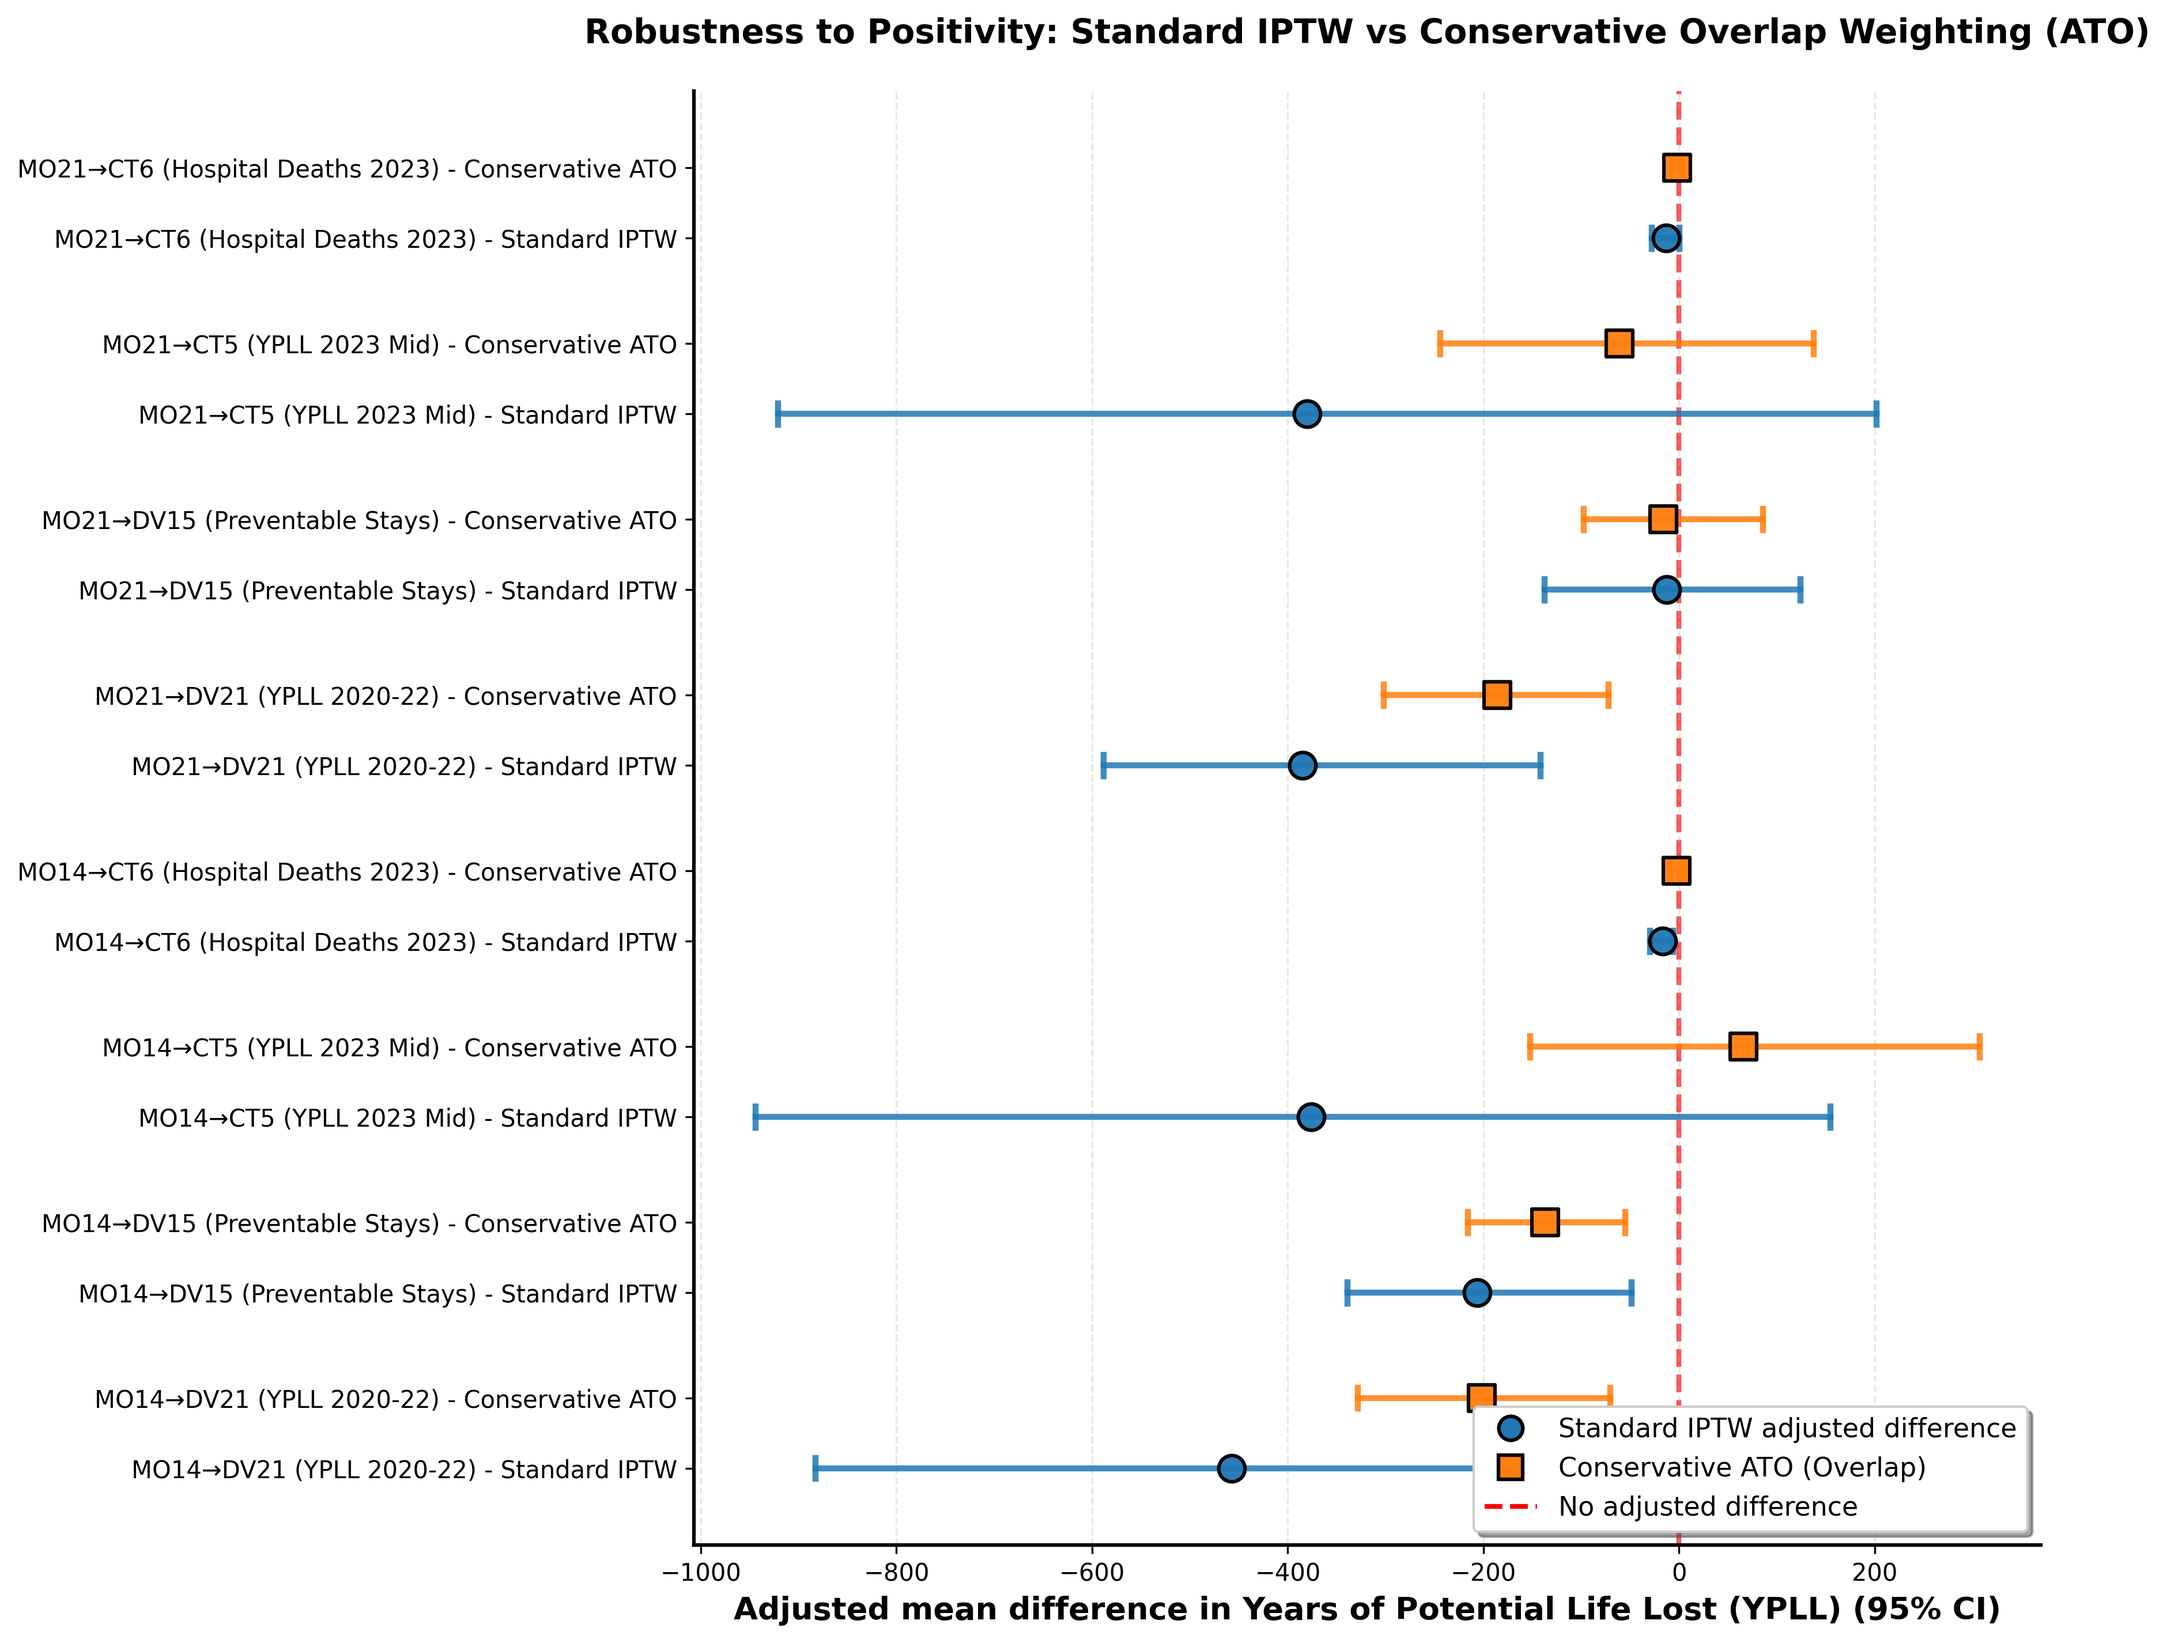
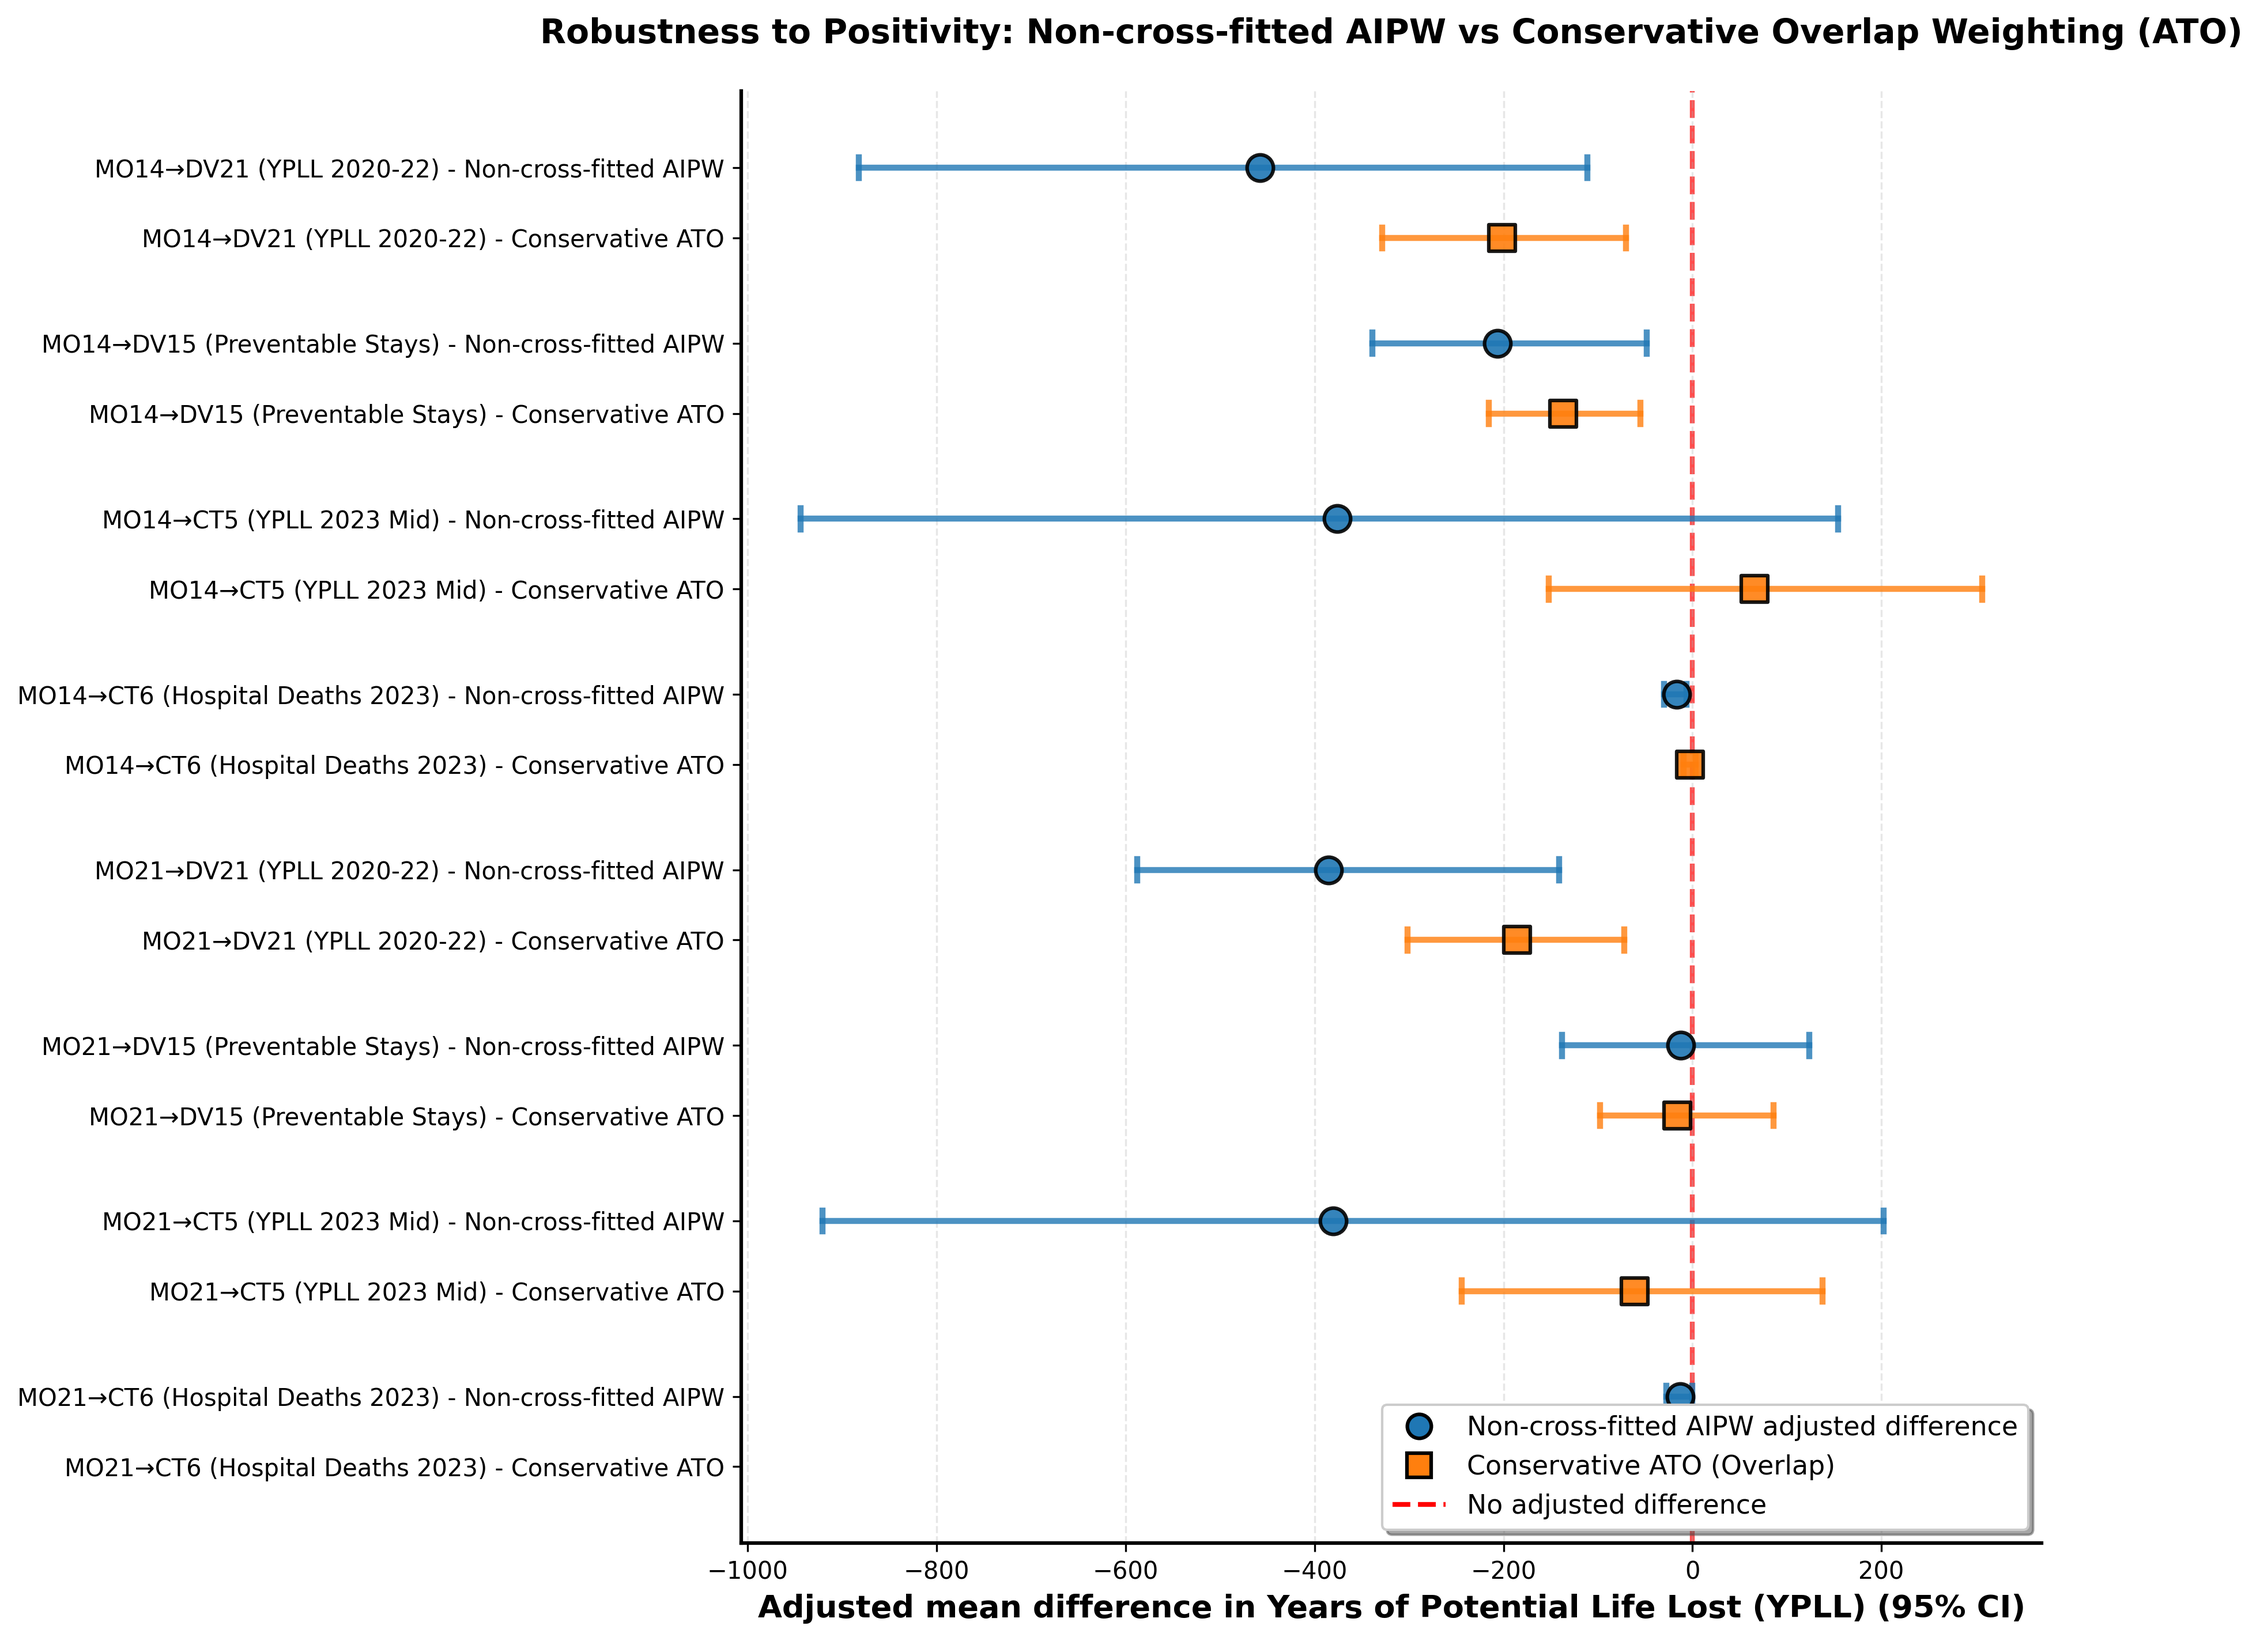
Update release metadata for v1.0.2

diff --git a/code/replicate_scirep_outcomes.py b/code/replicate_scirep_outcomes.py
@@ -5973,7 +5973,8 @@ def plot_forest_plot_ate(results_df: pd.DataFrame, outcome_label: str, plot_dir:
 def plot_iptw_vs_ato_forest(overlap_df: pd.DataFrame, outcome_label: str, plot_dir: str, 
                             logger, filename: str = "forest_plot_iptw_vs_ato.png"):
     """
-    Create a forest plot comparing IPTW (standard) vs ATO (overlap-weighted) estimates.
+    Create a forest plot comparing non-cross-fitted AIPW vs ATO (overlap-weighted)
+    adjusted mean differences.
     
     This visualization addresses reviewer concerns about positivity by showing that
     adjusted associations can be compared in the overlap population with best
@@ -6011,13 +6012,13 @@ def plot_iptw_vs_ato_forest(overlap_df: pd.DataFrame, outcome_label: str, plot_d
         
         y_pos = 0
         for idx, row in df.iterrows():
-            # IPTW estimate (standard)
+            # Non-cross-fitted AIPW estimate
             if not np.isnan(row['IPTW_ATE']):
                 y_positions.append(y_pos)
                 estimates.append(row['IPTW_ATE'])
                 ci_lowers.append(row['IPTW_CI_Lower'])
                 ci_uppers.append(row['IPTW_CI_Upper'])
-                labels.append(f"{row['Label']} - Standard IPTW")
+                labels.append(f"{row['Label']} - Non-cross-fitted AIPW")
                 colors.append('#1f77b4')  # Blue
                 markers.append('o')
                 y_pos += 1
@@ -6060,14 +6061,14 @@ def plot_iptw_vs_ato_forest(overlap_df: pd.DataFrame, outcome_label: str, plot_d
         ax.set_yticks(y_positions)
         ax.set_yticklabels(labels, fontsize=10)
         ax.set_xlabel(f'Adjusted mean difference in {outcome_label} (95% CI)', fontsize=13, fontweight='bold')
-        ax.set_title('Robustness to Positivity: Standard IPTW vs Conservative Overlap Weighting (ATO)', 
+        ax.set_title('Robustness to Positivity: Non-cross-fitted AIPW vs Conservative Overlap Weighting (ATO)', 
                     fontsize=14, fontweight='bold', pad=20)
         
         # Legend
         from matplotlib.lines import Line2D
         legend_elements = [
             Line2D([0], [0], marker='o', color='w', markerfacecolor='#1f77b4', 
-                   markersize=10, label='Standard IPTW adjusted difference', markeredgecolor='black', markeredgewidth=1.5),
+                   markersize=10, label='Non-cross-fitted AIPW adjusted difference', markeredgecolor='black', markeredgewidth=1.5),
             Line2D([0], [0], marker='s', color='w', markerfacecolor='#ff7f0e', 
                    markersize=10, label='Conservative ATO (Overlap)', markeredgecolor='black', markeredgewidth=1.5),
             Line2D([0], [0], color='red', linewidth=2, linestyle='--', label='No adjusted difference')

diff --git a/README.md b/README.md
@@ -98,13 +98,14 @@ LaTeX source.
 The intended journal-submission release tag is:
 
 ```sh
-v1.0.0
+v1.0.2
 ```
 
 Use the release tag that corresponds exactly to the submitted manuscript in the
-Data Availability and Code Availability statements. If final test-suite or
-documentation corrections are included after `v1.0.0`, create and cite a new
-release tag rather than assuming the older tag contains those changes.
+Data Availability and Code Availability statements. If later test-suite,
+artifact, or documentation corrections are included after the cited tag, create
+and cite a new release tag rather than assuming an older tag contains those
+changes.
 
 ## License
 
